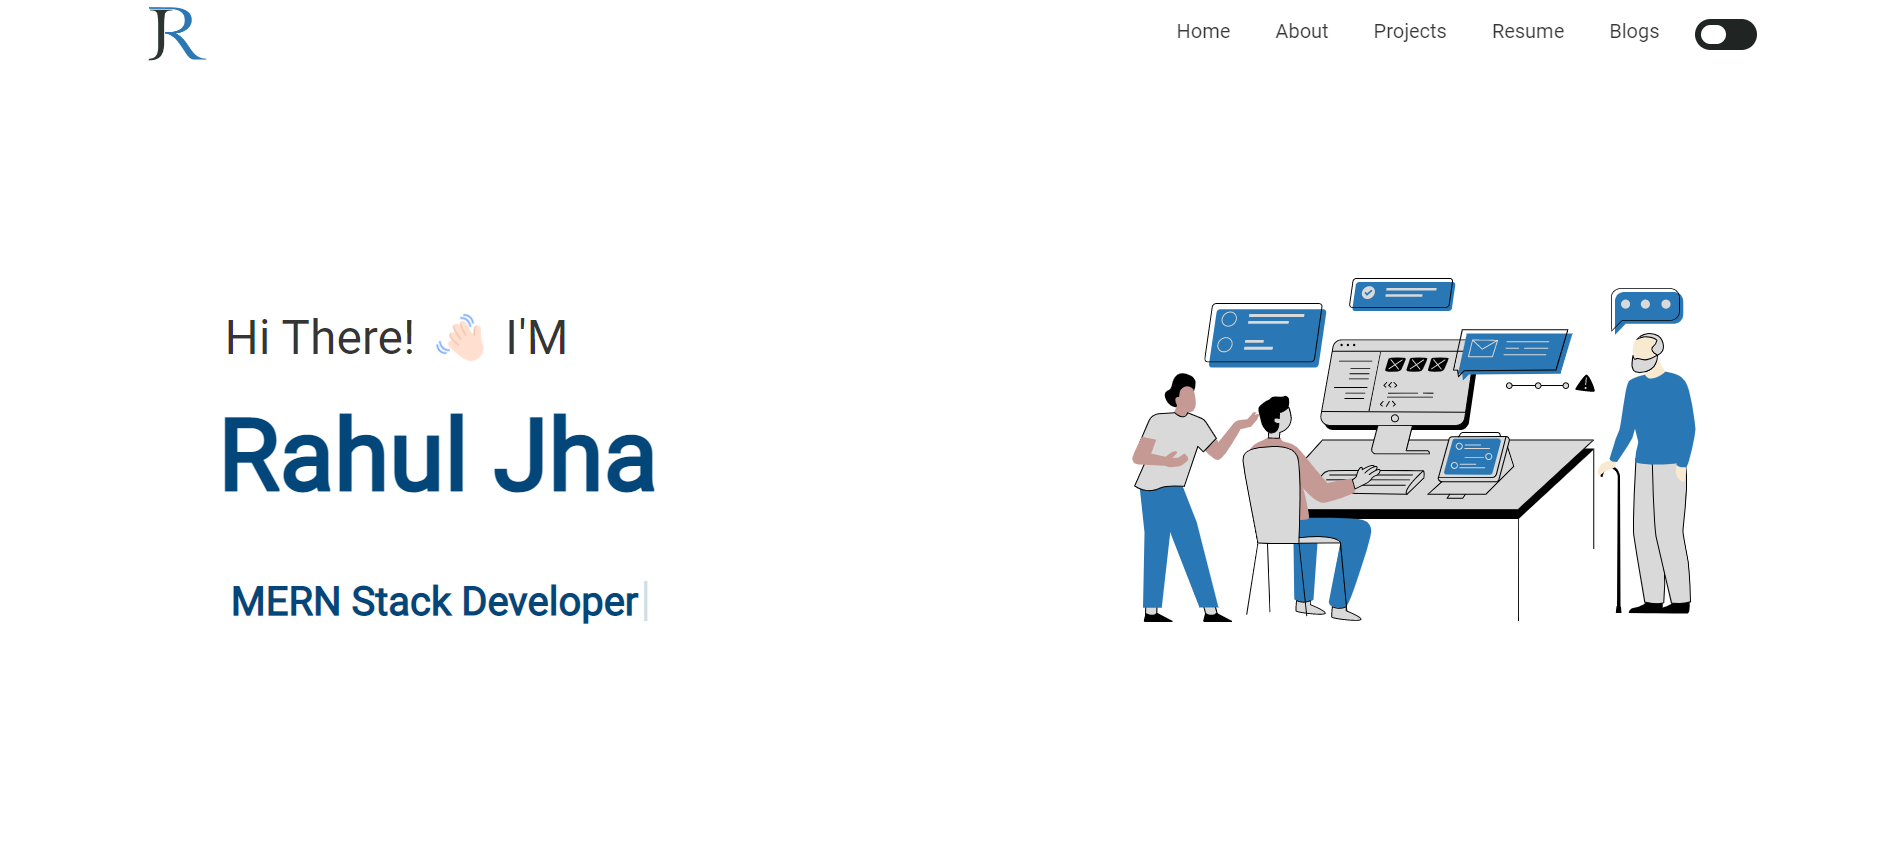
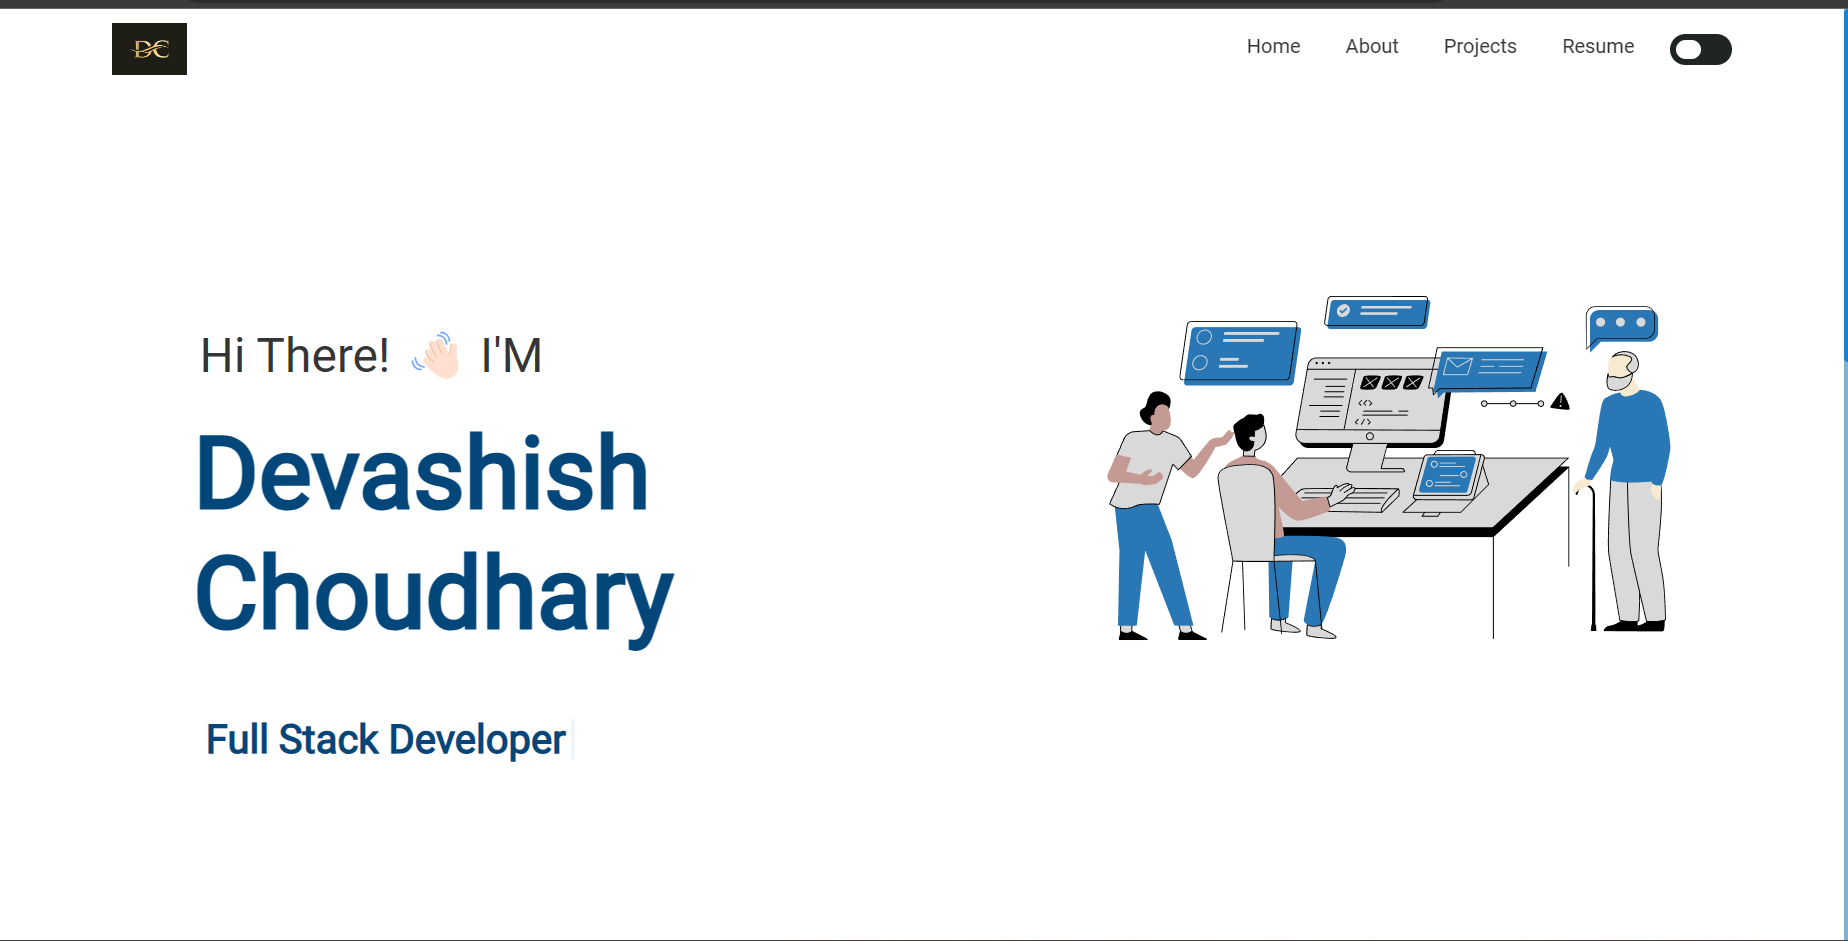
Placed images in projects section

diff --git a/src/components/Projects/Projects.js b/src/components/Projects/Projects.js
@@ -34,8 +34,8 @@ function Projects() {
               imgPath={Portfolio}
               title="Portfolio Website"
               description="My personal Portfolio Website build with React and Bootstrap. It is fully responsive website which supports both dark and light mode."
-              ghLink="https://github.com/rahuljha4171/Portfolio-Website"
-              demoLink="https://rahuljha.tech/"
+              ghLink="https://devashishchoudharya.github.io/Devashish_Choudhary/"
+              demoLink="https://devashish-choudhary.vercel.app/"
             />
           </Col>
           <Col md={6} lg={4} className="project-card">

diff --git a/README.md b/README.md
@@ -1,6 +1,6 @@
 <h2 align="center">
-  Rahul Jha | Portfolio Website<br/>
-  <a href="https://www.rahuljha.tech/" target="_blank">rahuljha.tech</a>
+  Devashish Choudhary | Portfolio Website<br/>
+  <a href="https://devashish-choudhary.vercel.app/" target="_blank">devashishchoudhary.tech</a>
 </h2>
 <div align="center">
   <img alt="Demo" src="./Images/readme_img.png" />
